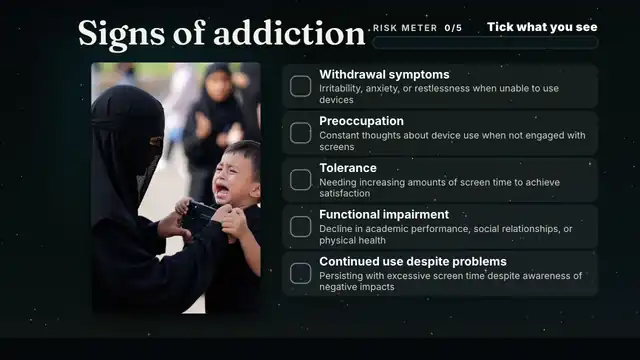
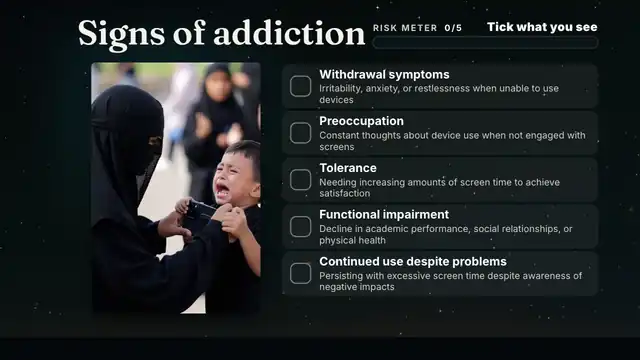
feat(deck): signs-of-addiction (#16) ticks one sign per Next

diff --git a/assets/js/custom/part-a.js b/assets/js/custom/part-a.js
@@ -304,6 +304,16 @@ Deck.registerSlide('signs-of-addiction', {
     clear.classList.add('pe'); clear.style.pointerEvents = 'auto';
     Array.prototype.forEach.call(r.querySelectorAll('.sg-row'), function (x) { x.style.pointerEvents = 'auto'; });
     upd();
+    el.__sg = { r: r, upd: upd };
+  },
+  steps: 5,                                           // each Next ticks the next sign (Back unticks it)
+  step: function (el, i) {
+    var s = el.__sg, row = s && s.r.querySelectorAll('.sg-row')[i - 1]; if (!row) return;
+    row.classList.add('on'); s.upd();
+  },
+  unstep: function (el, i) {
+    var s = el.__sg, row = s && s.r.querySelectorAll('.sg-row')[i - 1]; if (!row) return;
+    row.classList.remove('on'); s.upd();
   }
 });
 

diff --git a/index.html b/index.html
@@ -30,7 +30,7 @@
 <script src="assets/js/ui.js?v=4"></script>
 <script src="assets/js/sky.js?v=4"></script>
 <!-- custom slides: add one <script> per file in assets/js/custom/ (must come before boot.js) -->
-<script src="assets/js/custom/part-a.js?v=11"></script>
+<script src="assets/js/custom/part-a.js?v=12"></script>
 <script src="assets/js/custom/part-b.js?v=3"></script>
 <script src="assets/js/custom/part-c.js?v=54"></script>
 <script src="assets/js/custom/part-d.js?v=8"></script>
